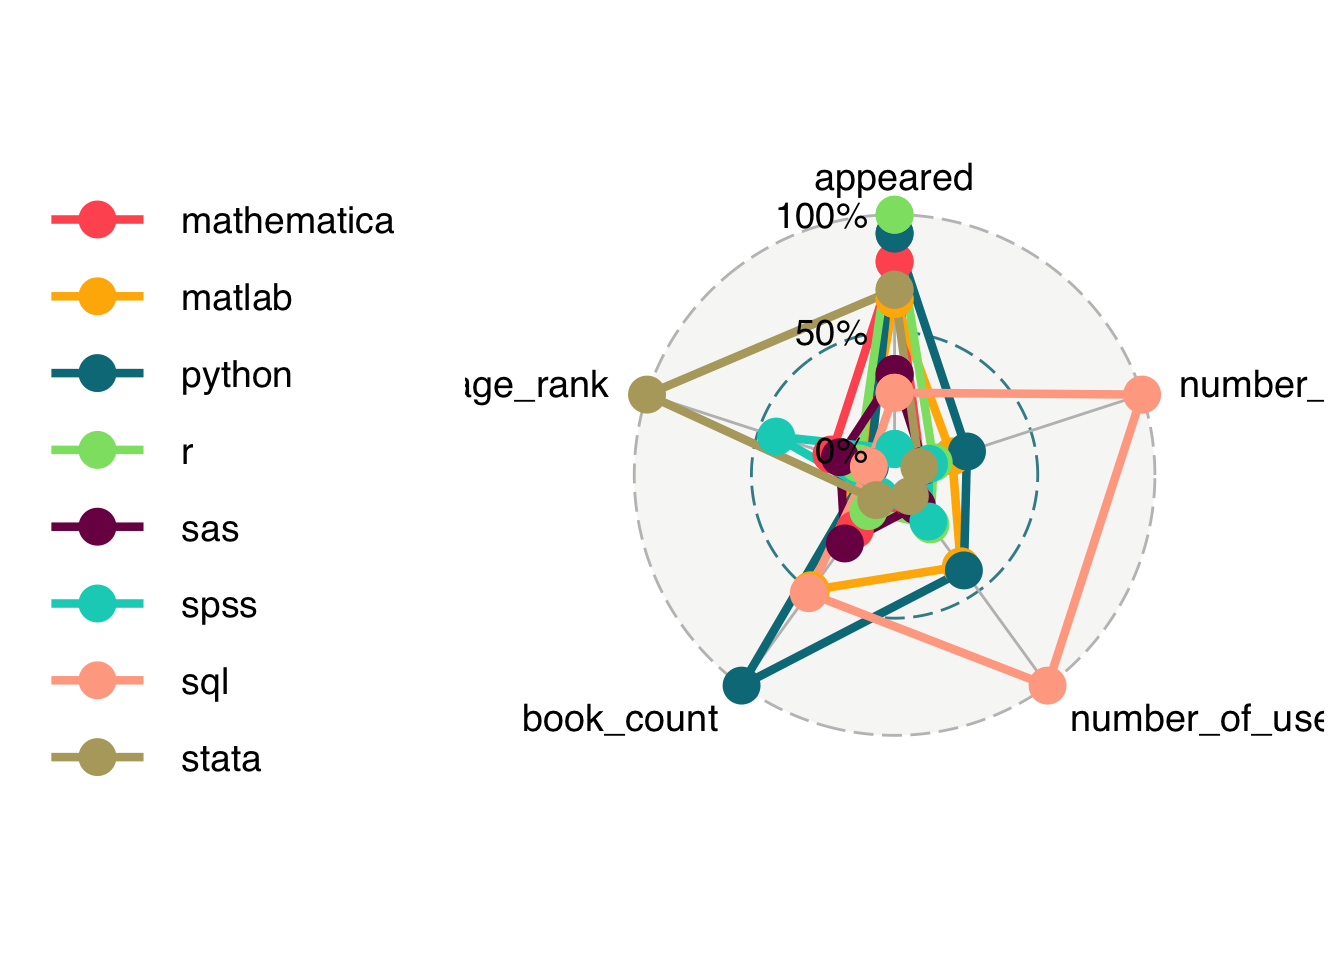
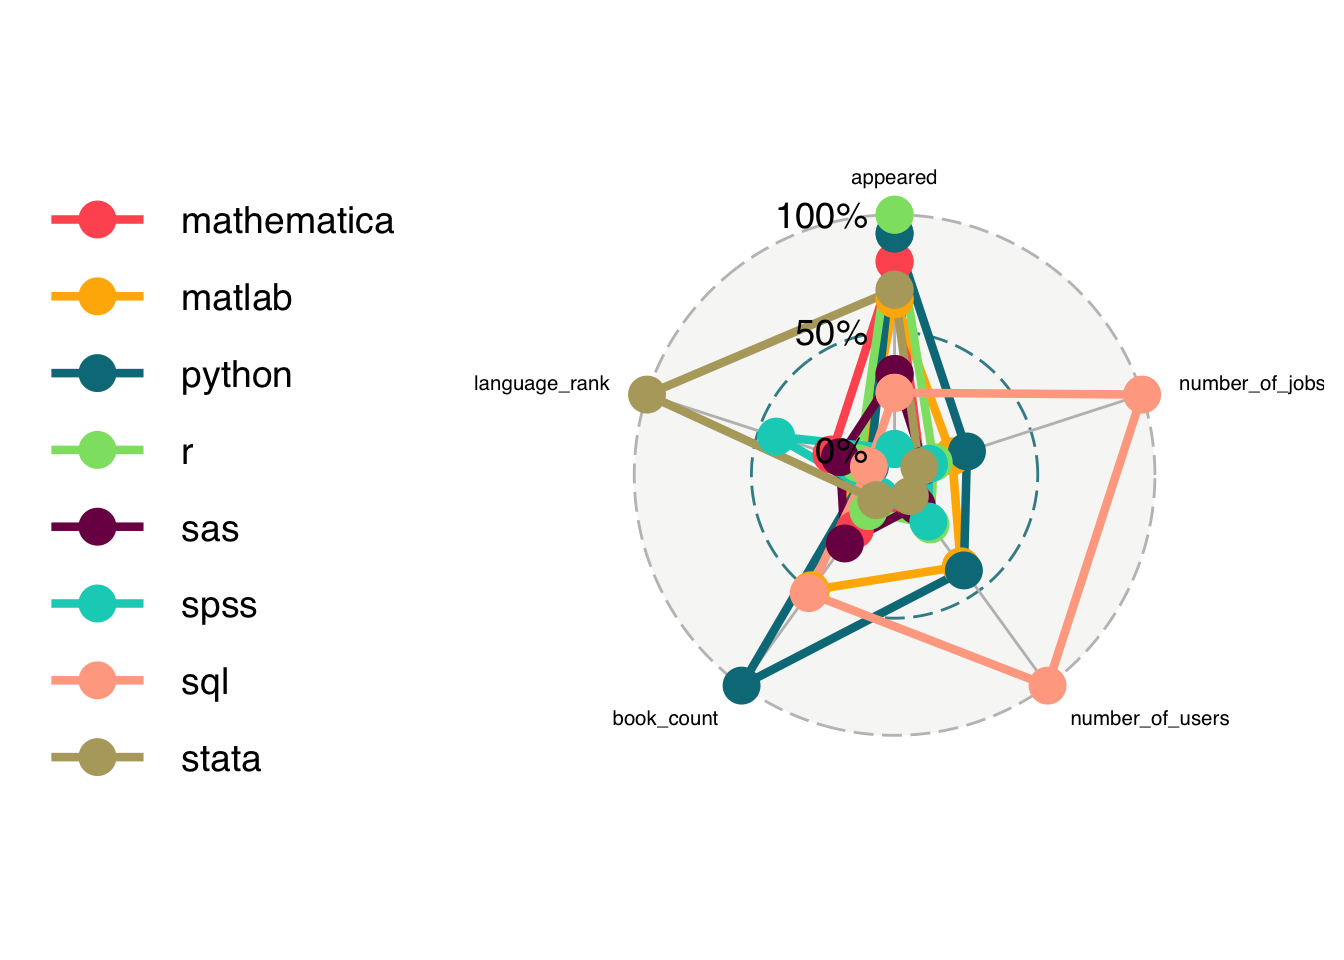
format labels

diff --git a/2023-03-21/prog_lang.html b/2023-03-21/prog_lang.html
@@ -188,9 +188,10 @@ code span.wa { color: #60a0b0; font-weight: bold; font-style: italic; } /* Warni
 <p><span class="math display">\[X_{rs} = \frac{X - \min}{\max - \min}\]</span></p>
 <div class="cell">
 <div class="sourceCode cell-code" id="cb6"><pre class="sourceCode r code-with-copy"><code class="sourceCode r"><span id="cb6-1"><a href="#cb6-1" aria-hidden="true" tabindex="-1"></a>lang_daily <span class="sc">%&gt;%</span></span>
-<span id="cb6-2"><a href="#cb6-2" aria-hidden="true" tabindex="-1"></a>  <span class="fu">select</span>(pldb_id, appeared, number_of_jobs, number_of_users, book_count, language_rank) <span class="sc">%&gt;%</span></span>
-<span id="cb6-3"><a href="#cb6-3" aria-hidden="true" tabindex="-1"></a>  <span class="fu">mutate_at</span>(<span class="fu">vars</span>(<span class="sc">-</span>pldb_id), rescale) <span class="sc">%&gt;%</span></span>
-<span id="cb6-4"><a href="#cb6-4" aria-hidden="true" tabindex="-1"></a>  <span class="fu">ggradar</span>() </span></code><button title="Copy to Clipboard" class="code-copy-button"><i class="bi"></i></button></pre></div>
+<span id="cb6-2"><a href="#cb6-2" aria-hidden="true" tabindex="-1"></a>  <span class="fu">select</span>(pldb_id, appeared, number_of_jobs, number_of_users, book_count, </span>
+<span id="cb6-3"><a href="#cb6-3" aria-hidden="true" tabindex="-1"></a>         language_rank) <span class="sc">%&gt;%</span></span>
+<span id="cb6-4"><a href="#cb6-4" aria-hidden="true" tabindex="-1"></a>  <span class="fu">mutate_at</span>(<span class="fu">vars</span>(<span class="sc">-</span>pldb_id), rescale) <span class="sc">%&gt;%</span></span>
+<span id="cb6-5"><a href="#cb6-5" aria-hidden="true" tabindex="-1"></a>  <span class="fu">ggradar</span>(<span class="at">axis.label.size =</span> <span class="fl">2.7</span>)</span></code><button title="Copy to Clipboard" class="code-copy-button"><i class="bi"></i></button></pre></div>
 <div class="cell-output-display">
 <div class="quarto-figure quarto-figure-center">
 <figure class="figure">
